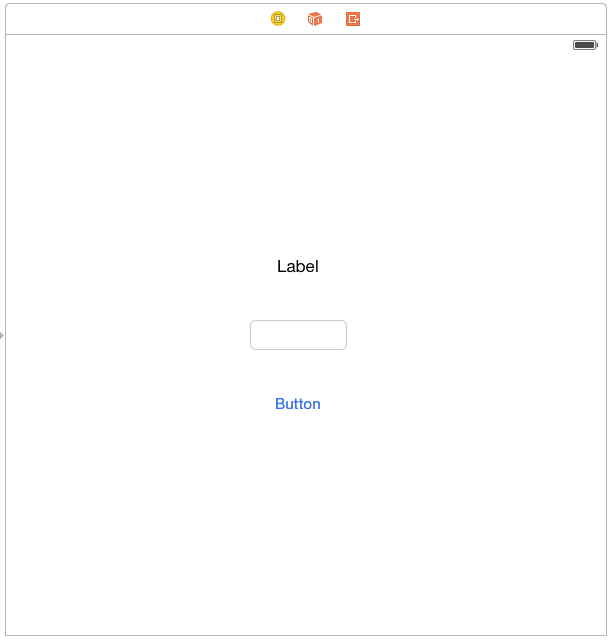
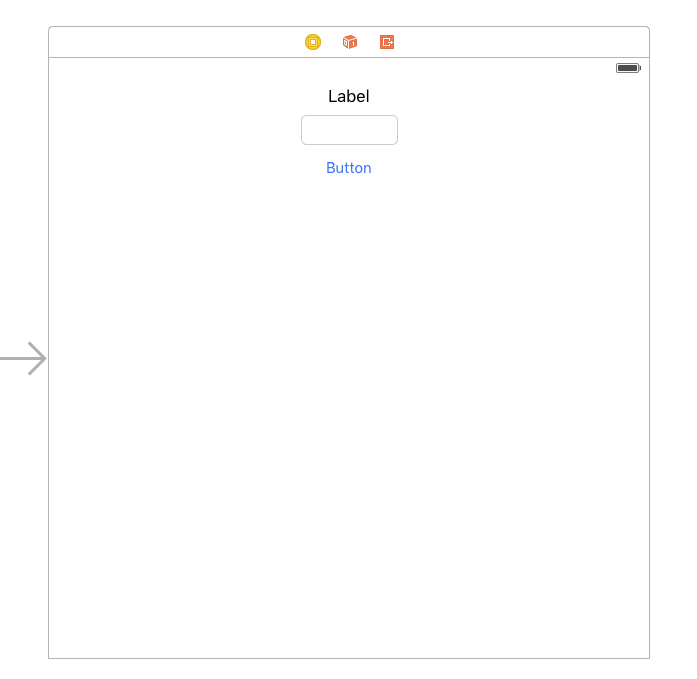
Creating UI - finished

diff --git a/README.md b/README.md
@@ -53,11 +53,14 @@ It will teach you:
 
   8. Looks pretty good! Let's run the app to see how it's looking.
 
+    ![UI_stage3-noConstraints](./screenshots/UI_stage3-noConstraints.png)
+
     Hmmmm ... that isn't really what we were aiming for. The text is going off the screen. What went wrong?
+
 
     What we're doing is building an *adaptive* interface, that will work on all sizes of screens. It needs to be responsive - which means we need to set some rules for the layout.
 
-  9. For this we'll use a `UIStackView`. The stack view is an interface for laying out several subviews, either vertically or horizontally. It'll help us lay out our 3 element neatly.
+  9. For this we'll use a `UIStackView`. The stack view is an interface for laying out several subviews, either vertically or horizontally. It'll help us lay out our 3 elements neatly.
 
     Hold down **Shift** and select the `Label`, `Text Field` and `Button`. When they're selected, click on the `Stack` button.
 
@@ -65,15 +68,22 @@ It will teach you:
 
     They should now be embedded within a `Stack View`. You can see this if you pop out the Xcode **Outline View**. Yes, another view. Sorry. But this one is pretty useful! It shows us the hierarchy of element in our view.
 
+    ![stack](./screenshots/OutlineView.png)
+
   10. I'm afraid it's time for ANOTHER view.<sup>1</sup> Missing Sublime Text yet? Head on over to the **Attributes Inspector**.To get to it, click the fourth button from the left in the inspector selector bar. It lets you edit the properties of an object in your storyboard.
 
-    AMAL  [screenshot of attributes inspector button and view heirachy!]
+    ![stack](./screenshots/AttrInspector.png)
 
-    Set the Spacing value of the `Stack View` to `12`. Also, set the `Alignment` to `Center` and `Distribution` to `Fill`.
+    Set the Spacing value of the `Stack View` to `12`. Also, set the `Alignment` to `Leading` and `Distribution` to `Fill`.
 
   11. Now we've set how our elements appear *within* the `Stack View`. Next, let's set out where the `Stack View` is placed within the `Scene`.
+      1. Move it to the top of the scene.
+      2. In the 'Outline View', hold CTRL and click-drag from the `Stack View` to the `View` listed in the view heirachy, and selected `Leading Space to Container Margin`, `Trailing Space to Container Margin` and `Vertical Spacing to Top Layout Guide.` - tip: if you hold SHIFT whilst clicking, you can select more than one at a time.
+      3. Lastly we need to make out `StackView` fill the width of the screen. Select the `StackView` and open the 'Size Inspector' in the 'Utility Area'. (The button that looks like a ruler). Under the 'Constraints' heading we can see our 3 constraints that we just set before.
 
-    Let's put it at the top of the scene, spanning the full with available. Drag the stack view to top of the scene. Then click and drag from the `Stack View` to the `View` listed in the view heirachy, and selected `Leading Space to Container Margin`, `Trailing Space to Container Margin` and `Vertical Spacing to Top Layout Guide.`
+      ![stack](./screenshots/constraints.png)
+
+      Edit all three constraints in turn, making sure the constant value is set to 0. Your `StackView` size should update when you do this to fill the width of the Scene.
 
   12. Run the app! It should look something like this:
 
